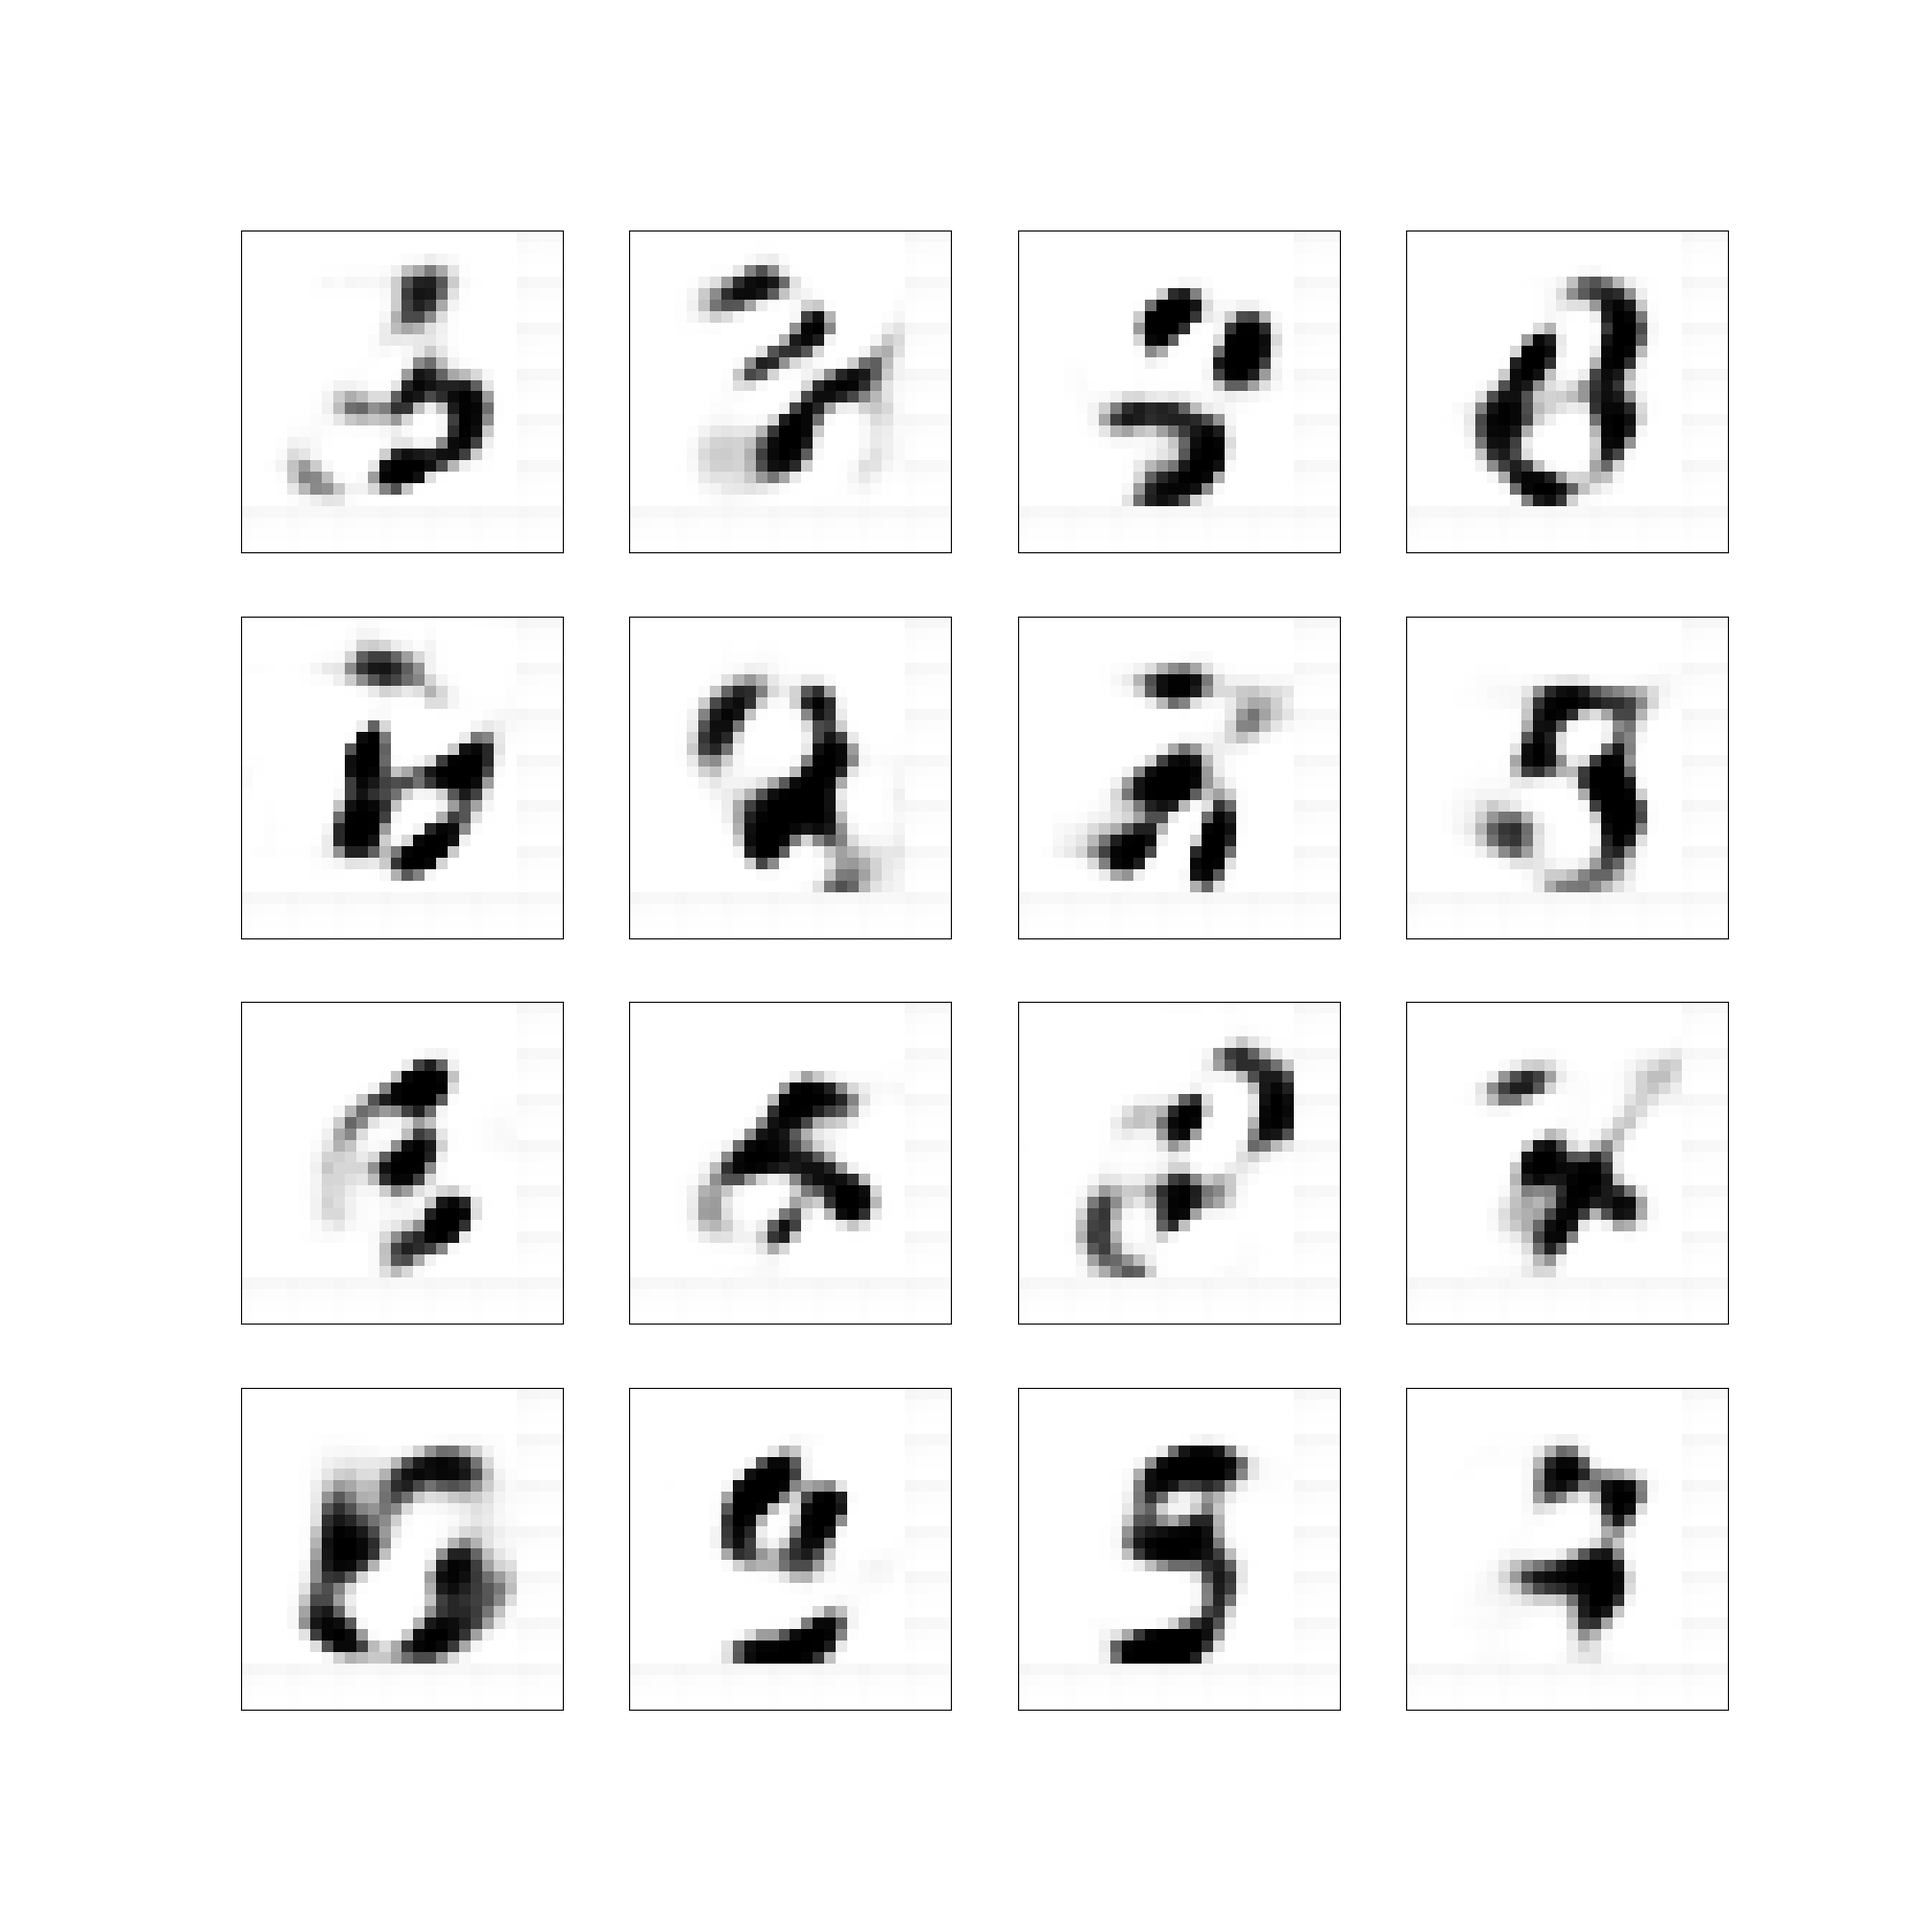
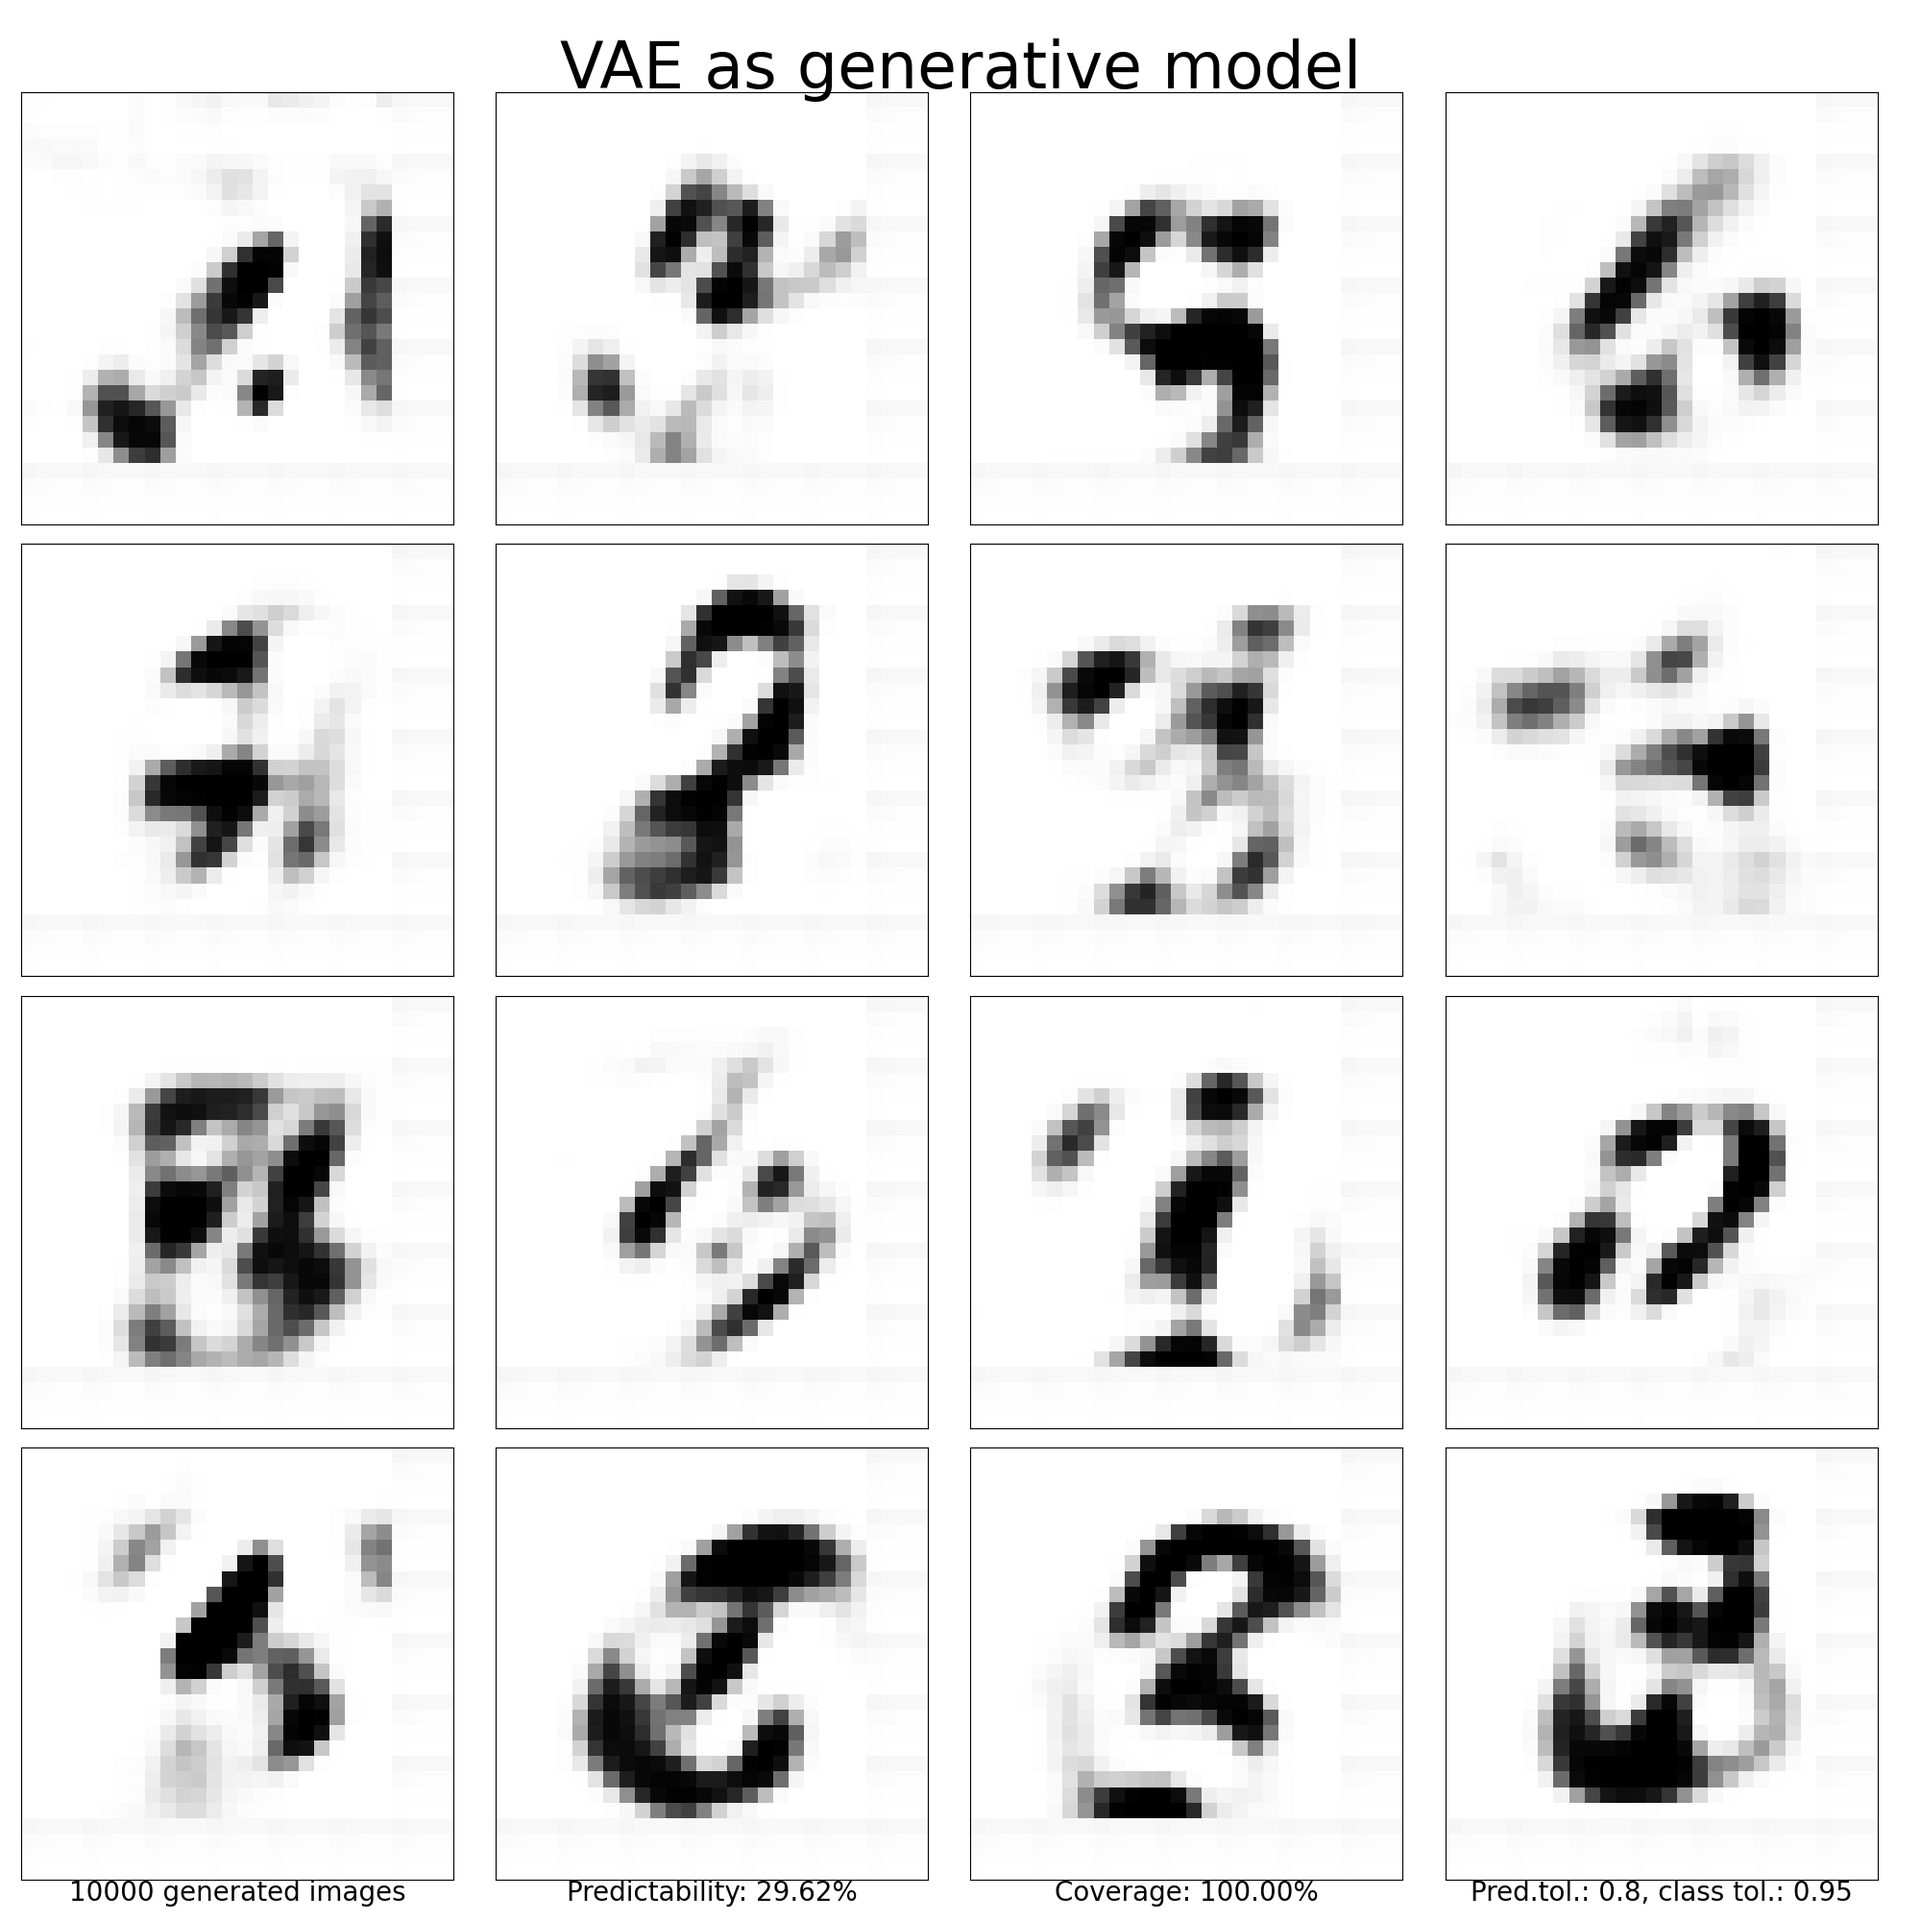
Update generative mode with necessary stats + title

diff --git a/Project 2 - Probabilistic AI/main_variableautoencoder.py b/Project 2 - Probabilistic AI/main_variableautoencoder.py
@@ -226,22 +226,60 @@ def plot_generative_model(model_path: str, channels: int, plot_savepath: str):
     model = load_model(model, model_path)
     model.eval()
 
-    z = torch.randn((16, 28))
+    verification_net = VerificationNet(file_name="./models/verification/verification_model")
+    verification_net.load_weights()
 
+    num_generatives = 10000
+    pred_tolerance = 0.8
+    class_tolerance = 0.95
+
+    z = torch.randn((num_generatives, 28))
     outputs = model.decode(z)
-    outputs = torch.permute(outputs, (0, 2, 3, 1)).detach().numpy()
+    images = torch.permute(outputs, (0, 2, 3, 1)).detach().numpy()
 
-    _, axes = plt.subplots(nrows=4, ncols=4, figsize=(20, 20))
+    predictability, _ = verification_net.check_predictability(
+        images, tolerance=pred_tolerance
+    )
+    coverage = verification_net.check_class_coverage(data=images, tolerance=class_tolerance)
+
+    # PLOT FIRST 16
+    fig, axes = plt.subplots(nrows=4, ncols=4, figsize=(20, 20))
     axes = axes.flat
     for i in range(16):
         if channels == 1:
-            axes[i].imshow(outputs[i, :, :, 0], cmap="binary")
+            axes[i].imshow(images[i, :, :, 0], cmap="binary")
         else:
-            axes[i].imshow(outputs[i, :, :, :].astype(float))
+            axes[i].imshow(images[i, :, :, :].astype(float))
 
         axes[i].set_xticks([])
         axes[i].set_yticks([])
     
+    fig.suptitle("VAE as generative model", fontsize=48)
+    axes[12].text(0.5, 0.0, 
+        f"{num_generatives} generated images",
+        horizontalalignment="center", verticalalignment="top",
+        transform=axes[12].transAxes,
+        fontsize=20
+    )
+    axes[13].text(0.5, 0.0, 
+        f"Predictability: {100*predictability:.2f}%",
+        horizontalalignment="center", verticalalignment="top",
+        transform=axes[13].transAxes,
+        fontsize=20
+    )
+    axes[14].text(0.5, 0.0,
+        f"Coverage: {100*coverage:.2f}%",
+        horizontalalignment="center", verticalalignment="top",
+        transform=axes[14].transAxes,
+        fontsize=20
+    )
+    axes[15].text(0.5, 0.0, 
+        f"Pred.tol.: {pred_tolerance}, class tol.: {class_tolerance}",
+        horizontalalignment="center", verticalalignment="top",
+        transform=axes[15].transAxes,
+        fontsize=20
+    )
+    fig.tight_layout()
     # plt.show()
     plt.savefig(plot_savepath)
     print(f"Generative mode saved at {plot_savepath}")
@@ -316,16 +354,16 @@ if __name__ == "__main__":
     # print_model_output("models/variableautoencoder/VAE_demo.pt", 3)
 
     # Plot VAE as generative model
-    # plot_generative_model(
-    #     "models/variableautoencoder/VAE_demo.pt", 1, "images/variableautoencoder/generative_mode.png"
-    # )
+    plot_generative_model(
+        "models/variableautoencoder/VAE_demo.pt", 1, "images/variableautoencoder/generative_mode.png"
+    )
 
     # # Train anomaly detector
     # train_VariableAutoEncoder(
     #     DataMode.MONO_BINARY_MISSING, 1, "models/variableautoencoder/VAE_anomaly.pt",
     #     epochs=100
     # )
-    # Use AE as anomaly detector
-    plot_anomaly_detection(
-        "models/variableautoencoder/VAE_anomaly.pt", 1, "images/variableautoencoder/anomaly_detection.png"
-    )
+    # # Use AE as anomaly detector
+    # plot_anomaly_detection(
+    #     "models/variableautoencoder/VAE_anomaly.pt", 1, "images/variableautoencoder/anomaly_detection.png"
+    # )
